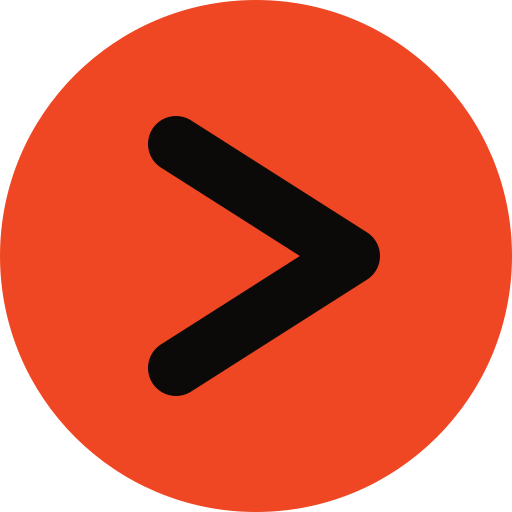
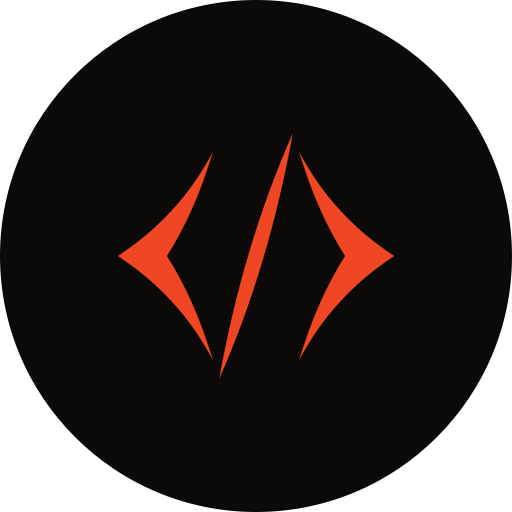
Replace brand mark with thorn brackets
Adds scripts/generate-brand.ts as the source for the mark (large and small
cuts) and every derived asset: favicons, app icons, OG card, GitHub avatar
and LinkedIn banner.

diff --git a/scripts/generate-brand.ts b/scripts/generate-brand.ts
@@ -1,0 +1,170 @@
+/**
+ * Brand mark generator: the thorn brackets </> (three tapered thorns).
+ *
+ * Two cuts of the same mark:
+ * - MARK: the reference drawing, for anything rendered at 48px and up.
+ * - MARK_SMALL: heavier slash and brackets so the thorns survive at 16 to 32px
+ *   (favicons, navbar, docs footers).
+ *
+ * Writes the SVG masters to /brand and /public, plus every raster icon.
+ * Run: bun scripts/generate-brand.ts
+ */
+import sharp from "sharp";
+import { writeFile } from "node:fs/promises";
+import { fileURLToPath } from "node:url";
+import { dirname, join } from "node:path";
+
+const ACCENT = "#ef4723";
+const GROUND = "#0c0a09";
+const OXBLOOD = "#42170c";
+const TEXT = "#ffffff";
+
+export const MARK =
+	"M36 16Q25 37 5 50Q25 63 36 84Q30 64 21 50Q30 36 36 16Z" +
+	"M64 16Q75 37 95 50Q75 63 64 84Q70 64 79 50Q70 36 64 16Z" +
+	"M62 10Q46 46 38 90Q54 54 62 10Z";
+
+export const MARK_SMALL =
+	"M36 15Q25 37 4 50Q25 63 36 85Q31 64 24 50Q31 36 36 15Z" +
+	"M64 15Q75 37 96 50Q75 63 64 85Q69 64 76 50Q69 36 64 15Z" +
+	"M62 10Q43 46 38 90Q57 54 62 10Z";
+
+const ROOT = join(dirname(fileURLToPath(import.meta.url)), "..");
+
+function markSvg(d: string, fill: string) {
+	return `<svg xmlns="http://www.w3.org/2000/svg" viewBox="0 0 100 100"><path fill="${fill}" d="${d}"/></svg>\n`;
+}
+
+// Mark placed in a box of `size` px whose top left corner sits at (x, y).
+function placed(d: string, x: number, y: number, size: number) {
+	return `<svg x="${x}" y="${y}" width="${size}" height="${size}" viewBox="0 0 100 100"><path fill="${ACCENT}" d="${d}"/></svg>`;
+}
+
+// Rounded dark tile, same shape as the previous app icons (22% corner radius).
+function appIcon(size: number) {
+	const markSize = size * 0.64;
+	const offset = (size - markSize) / 2;
+	return `<svg xmlns="http://www.w3.org/2000/svg" width="${size}" height="${size}"><rect width="${size}" height="${size}" rx="${size * 0.22}" fill="${GROUND}"/>${placed(MARK, offset, offset, markSize)}</svg>`;
+}
+
+function avatar(size: number) {
+	const markSize = size * 0.6;
+	const offset = (size - markSize) / 2;
+	return `<svg xmlns="http://www.w3.org/2000/svg" width="${size}" height="${size}"><circle cx="${size / 2}" cy="${size / 2}" r="${size / 2}" fill="${GROUND}"/>${placed(MARK, offset, offset, markSize)}</svg>`;
+}
+
+// Deterministic PRNG so the banner renders identically on every run.
+function mulberry32(seed: number) {
+	let a = seed;
+	return function () {
+		a |= 0;
+		a = (a + 0x6d2b79f5) | 0;
+		let t = Math.imul(a ^ (a >>> 15), 1 | a);
+		t = (t + Math.imul(t ^ (t >>> 7), 61 | t)) ^ t;
+		return ((t ^ (t >>> 14)) >>> 0) / 4294967296;
+	};
+}
+
+// A burst of long tapered thorns radiating from (cx, cy), echoing the mark.
+function thornBurst(cx: number, cy: number, count: number, seed: number) {
+	const rand = mulberry32(seed);
+	const blades: string[] = [];
+	for (let i = 0; i < count; i++) {
+		const angle = (i / count) * 360 + (rand() - 0.5) * (240 / count);
+		const r0 = 130 + rand() * 40;
+		const r1 = r0 + 260 + rand() * 820;
+		const peak = r0 + (r1 - r0) * (0.18 + rand() * 0.14);
+		const half = 1.2 + rand() * 3.4;
+		const opacity = (0.12 + rand() * 0.3).toFixed(3);
+		blades.push(
+			`<path transform="translate(${cx} ${cy}) rotate(${angle.toFixed(2)})" fill-opacity="${opacity}" d="M${r0} 0Q${peak.toFixed(1)} ${half.toFixed(2)} ${r1.toFixed(1)} 0Q${peak.toFixed(1)} ${(-half).toFixed(2)} ${r0} 0Z"/>`,
+		);
+	}
+	return blades.join("");
+}
+
+function linkedinBanner() {
+	const w = 1584;
+	const h = 396;
+	const cx = w / 2;
+	const cy = h / 2 - 8;
+	const markSize = 190;
+	const x = cx - markSize / 2;
+	const y = cy - markSize / 2;
+	return `<svg xmlns="http://www.w3.org/2000/svg" width="${w}" height="${h}">
+<defs>
+	<radialGradient id="glow" cx="${cx}" cy="${cy}" r="420" gradientUnits="userSpaceOnUse" gradientTransform="translate(${cx} ${cy}) scale(2 1) translate(${-cx} ${-cy})">
+		<stop offset="0" stop-color="${OXBLOOD}" stop-opacity="1"/>
+		<stop offset="0.45" stop-color="${OXBLOOD}" stop-opacity="0.45"/>
+		<stop offset="1" stop-color="${OXBLOOD}" stop-opacity="0"/>
+	</radialGradient>
+	<radialGradient id="fade" cx="${cx}" cy="${cy}" r="760" gradientUnits="userSpaceOnUse">
+		<stop offset="0" stop-color="#fff" stop-opacity="1"/>
+		<stop offset="0.55" stop-color="#fff" stop-opacity="0.55"/>
+		<stop offset="1" stop-color="#fff" stop-opacity="0"/>
+	</radialGradient>
+	<mask id="rays" maskUnits="userSpaceOnUse" x="0" y="0" width="${w}" height="${h}"><rect width="${w}" height="${h}" fill="url(#fade)"/></mask>
+	<filter id="halo" x="-50%" y="-50%" width="200%" height="200%"><feGaussianBlur stdDeviation="22"/></filter>
+</defs>
+<rect width="${w}" height="${h}" fill="${GROUND}"/>
+<rect width="${w}" height="${h}" fill="url(#glow)"/>
+<g mask="url(#rays)" fill="${ACCENT}">${thornBurst(cx, cy, 72, 7)}</g>
+<g filter="url(#halo)" opacity="0.55">${placed(MARK, x, y, markSize)}</g>
+${placed(MARK, x, y, markSize)}
+<text x="${w - 56}" y="${h - 40}" text-anchor="end" font-family="Work Sans" font-weight="500" font-size="28" fill="${ACCENT}">koolcodez.com</text>
+</svg>`;
+}
+
+// Default social card, same layout as the project cards in /public/og-*.png.
+function ogDefault() {
+	const w = 1200;
+	const h = 630;
+	const markSize = 280;
+	return `<svg xmlns="http://www.w3.org/2000/svg" width="${w}" height="${h}">
+<defs><linearGradient id="bar" x1="0" y1="0" x2="1" y2="0"><stop offset="0" stop-color="#DD5635"/><stop offset="1" stop-color="#F07A50"/></linearGradient></defs>
+<rect width="${w}" height="${h}" fill="#000000"/>
+<rect width="8" height="${h}" fill="url(#bar)"/>
+${placed(MARK, 270 - markSize / 2, h / 2 - markSize / 2, markSize)}
+<g font-family="Work Sans" fill="${TEXT}">
+	<text x="500" y="260" font-size="72" font-weight="700" letter-spacing="-1.5">Kool Codez</text>
+	<text x="500" y="315" font-size="30" font-weight="400" fill="#DD5635">Frontend engineering</text>
+	<text x="500" y="400" font-size="26" font-weight="300" fill="#cccccc">React libraries and TypeScript UI components</text>
+	<text x="500" y="440" font-size="26" font-weight="300" fill="#cccccc">crafted for speed, polish, and maintainability.</text>
+	<text x="500" y="555" font-size="22" font-weight="400" fill="#999999">koolcodez.com</text>
+</g>
+</svg>`;
+}
+
+async function png(svg: string, out: string) {
+	await sharp(Buffer.from(svg)).png().toFile(join(ROOT, out));
+}
+
+// ICO container holding a single 32x32 PNG.
+async function ico(out: string) {
+	const image = await sharp(Buffer.from(markSvg(MARK_SMALL, ACCENT))).resize(32, 32).png().toBuffer();
+	const header = Buffer.alloc(22);
+	header.writeUInt16LE(0, 0);
+	header.writeUInt16LE(1, 2);
+	header.writeUInt16LE(1, 4);
+	header.writeUInt8(32, 6);
+	header.writeUInt8(32, 7);
+	header.writeUInt8(0, 8);
+	header.writeUInt8(0, 9);
+	header.writeUInt16LE(1, 10);
+	header.writeUInt16LE(32, 12);
+	header.writeUInt32LE(image.length, 14);
+	header.writeUInt32LE(22, 18);
+	await writeFile(join(ROOT, out), Buffer.concat([header, image]));
+}
+
+await writeFile(join(ROOT, "brand/koolcodez-mark.svg"), markSvg(MARK, ACCENT));
+await writeFile(join(ROOT, "brand/koolcodez-mark-small.svg"), markSvg(MARK_SMALL, ACCENT));
+await writeFile(join(ROOT, "public/favicon.svg"), markSvg(MARK_SMALL, ACCENT));
+await ico("public/favicon.ico");
+await png(appIcon(180), "public/apple-touch-icon.png");
+await png(appIcon(192), "public/icon-192.png");
+await png(appIcon(512), "public/icon-512.png");
+await png(appIcon(512), "public/logo.png");
+await png(avatar(512), "brand/github-avatar.png");
+await png(linkedinBanner(), "brand/linkedin-banner.png");
+await png(ogDefault(), "public/og-default.png");

diff --git a/README.md b/README.md
@@ -1,5 +1,5 @@
 <div align="center">
-  <img src="public/kool-codez-logo.svg" alt="Kool Codez" width="300">
+  <img src="public/og-default.png" alt="Kool Codez" width="600">
 </div>
 
 # Kool Codez
